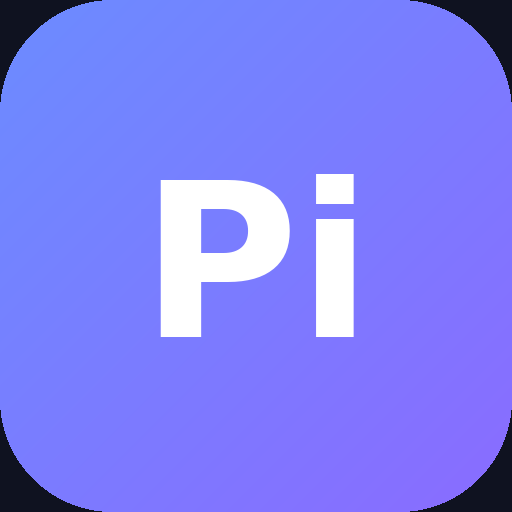
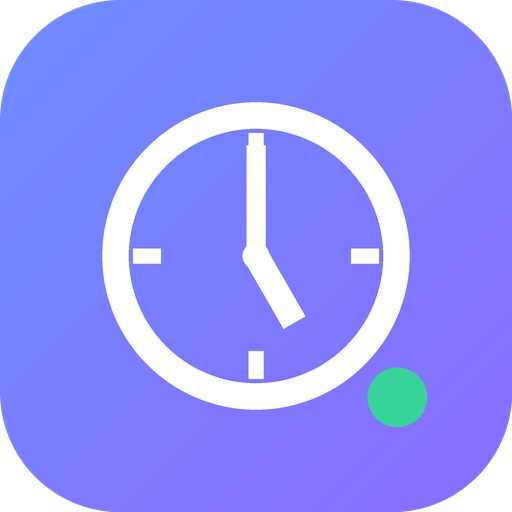
Ícone com relógio e atualização automática do APK
O ícone do launcher era a arte de iniciais "Pi" — a versão com relógio
nunca chegou ao repositório. Gerei uma na paleta do app: mostrador com
os ponteiros em 17:00, a hora de ir embora, e o ponto verde do dia
zerado. Sai em todas as densidades, com ícone adaptativo e monocromático
pra máscara do Android não recortar o relógio.

Atualização: o app consulta a última release do GitHub e compara com o
próprio versionCode, que agora é o número do build — o mesmo N da tag
apk-N, então a comparação é direta. Havendo versão nova, baixa pelo
DownloadManager e abre o instalador do sistema via FileProvider, porque
file:// é recusado desde o Android 7.

A checagem roda sozinha ao abrir, mas só fala se houver novidade; pelo
botão ela responde nos dois casos. Instalar continua sendo confirmação
do usuário — o Android não deixa um app se substituir sozinho, e não
deveria mesmo.

Claude-Session: https://claude.ai/code/session_01JaSB2K9tfWYAkauGRKa5f5

diff --git a/android/app/src/main/java/br/com/impactaweb/pontoimp/Atualizador.kt b/android/app/src/main/java/br/com/impactaweb/pontoimp/Atualizador.kt
@@ -1,0 +1,88 @@
+package br.com.impactaweb.pontoimp
+
+import android.app.DownloadManager
+import android.content.Context
+import android.content.Intent
+import android.database.Cursor
+import android.net.Uri
+import android.os.Environment
+import android.util.Log
+import androidx.core.content.FileProvider
+import org.json.JSONObject
+import java.io.File
+import java.net.HttpURLConnection
+import java.net.URL
+
+/**
+ * Atualização por fora da Play Store: consulta a última release do GitHub,
+ * compara com o versionCode instalado e baixa o APK quando há versão nova.
+ *
+ * A instalação em si é sempre do usuário — o Android não deixa (e nem deveria
+ * deixar) um app se substituir sozinho sem confirmação.
+ */
+object Atualizador {
+    private const val TAG = "PontoImp"
+    private const val API = "https://api.github.com/repos/denerbatista/pontoimp/releases/latest"
+
+    data class Release(val versao: Int, val nome: String, val url: String)
+
+    /** Faz rede: chame fora da thread principal. */
+    fun consultar(): Release? = runCatching {
+        val con = (URL(API).openConnection() as HttpURLConnection).apply {
+            connectTimeout = 12000; readTimeout = 12000
+            setRequestProperty("Accept", "application/vnd.github+json")
+        }
+        if (con.responseCode != 200) { Log.w(TAG, "release: HTTP ${con.responseCode}"); return null }
+        val j = JSONObject(con.inputStream.bufferedReader().use { it.readText() })
+
+        // a tag é apk-N, e N é o run_number do build, que cresce sempre
+        val versao = Regex("""apk-(\d+)""").find(j.optString("tag_name"))
+            ?.groupValues?.get(1)?.toIntOrNull() ?: return null
+
+        val assets = j.optJSONArray("assets") ?: return null
+        for (i in 0 until assets.length()) {
+            val a = assets.getJSONObject(i)
+            if (a.optString("name").endsWith(".apk"))
+                return Release(versao, a.optString("name"), a.optString("browser_download_url"))
+        }
+        null
+    }.getOrNull()
+
+    fun versaoInstalada(ctx: Context): Int = runCatching {
+        ctx.packageManager.getPackageInfo(ctx.packageName, 0).let {
+            @Suppress("DEPRECATION") it.versionCode
+        }
+    }.getOrDefault(0)
+
+    /** Baixa pro diretório privado do app e devolve o id do download. */
+    fun baixar(ctx: Context, r: Release): Long {
+        val destino = File(ctx.getExternalFilesDir(Environment.DIRECTORY_DOWNLOADS), r.nome)
+        if (destino.exists()) destino.delete()
+        val req = DownloadManager.Request(Uri.parse(r.url))
+            .setTitle("PontoImp " + r.versao)
+            .setDescription("Baixando a atualização")
+            .setNotificationVisibility(DownloadManager.Request.VISIBILITY_VISIBLE_NOTIFY_COMPLETED)
+            .setDestinationUri(Uri.fromFile(destino))
+        return ctx.getSystemService(DownloadManager::class.java).enqueue(req)
+    }
+
+    /** Abre a tela de instalação do Android com o APK baixado. */
+    fun instalar(ctx: Context, id: Long): Boolean {
+        val dm = ctx.getSystemService(DownloadManager::class.java)
+        val c: Cursor = dm.query(DownloadManager.Query().setFilterById(id)) ?: return false
+        c.use {
+            if (!it.moveToFirst()) return false
+            val status = it.getInt(it.getColumnIndexOrThrow(DownloadManager.COLUMN_STATUS))
+            if (status != DownloadManager.STATUS_SUCCESSFUL) return false
+            val local = it.getString(it.getColumnIndexOrThrow(DownloadManager.COLUMN_LOCAL_URI)) ?: return false
+            val arquivo = File(Uri.parse(local).path ?: return false)
+            // content:// via FileProvider — file:// é recusado desde o Android 7
+            val uri = FileProvider.getUriForFile(ctx, "${ctx.packageName}.arquivos", arquivo)
+            ctx.startActivity(Intent(Intent.ACTION_VIEW).apply {
+                setDataAndType(uri, "application/vnd.android.package-archive")
+                addFlags(Intent.FLAG_GRANT_READ_URI_PERMISSION or Intent.FLAG_ACTIVITY_NEW_TASK)
+            })
+            return true
+        }
+    }
+}

diff --git a/index.html b/index.html
@@ -702,6 +702,22 @@ function testarAlarmeNativo(){
 
 /* Sem permissão de alarme exato o Android não agenda nada — e antes disso o app
    não tinha como te contar. É a causa mais provável de "só toca com o app aberto". */
+/* ---------- atualização do APK ---------- */
+let versaoNova=0, checagemSilenciosa=true;
+function aoVerificarAtualizacao(nova,atual){
+  versaoNova=nova||0;
+  // na abertura só falamos se houver novidade; no botão, sempre respondemos
+  if(!nova){ if(!checagemSilenciosa) toast('Você já está na versão mais nova ('+atual+').'); }
+  else toast('Versão '+nova+' disponível.');
+  checagemSilenciosa=true;
+  render();
+}
+function verificarAtualizacao(){
+  if(typeof AndroidAlarme?.verificarAtualizacao!=='function') return toast('Só no app instalado.');
+  checagemSilenciosa=false; toast('Consultando…'); AndroidAlarme.verificarAtualizacao();
+}
+function baixarAtualizacao(){ if(typeof AndroidAlarme?.baixarAtualizacao==='function') AndroidAlarme.baixarAtualizacao(); }
+
 function diagAlarmeNativo(){
   const exato=pn('podeAlarmeExato',null), sobre=pn('podeSobreporTelas',null), n=pn('alarmesArmados',null);
   if(exato===null) return `<p class="muted" style="font-size:12px;margin:0">APK antigo: atualize pra ver o estado dos alarmes.</p>`;
@@ -1353,7 +1369,10 @@ function viewCfg(){
     <div class="row2" style="margin-top:8px">
       <button class="btn ghost sm" style="width:100%" onclick="armarAlarmesNativos()&&toast('Alarmes remarcados no sistema.')">⏰ Remarcar alarmes</button>
       <button class="btn ghost sm" style="width:100%" onclick="testarAlarmeNativo()">🔔 Testar alarme</button>
-    </div>`:`
+    </div>
+    ${versaoNova
+      ? `<button class="btn sm" style="width:100%;margin-top:8px" onclick="baixarAtualizacao()">⬇ Baixar e instalar a versão ${versaoNova}</button>`
+      : `<button class="btn ghost sm" style="width:100%;margin-top:8px" onclick="verificarAtualizacao()">🔄 Procurar atualização do app</button>`}`:`
     <div class="row2">
       <button class="btn ghost sm" style="width:100%" onclick="pedirPermissao()">🔔 Ativar notificações</button>
       <button class="btn ghost sm" style="width:100%" onclick="instalarApp()">📲 Instalar no celular</button>
@@ -1447,7 +1466,12 @@ function enterApp(){ $('#login').classList.add('hidden'); $('#app').classList.re
    silencia quem pede sem gesto), por isso ainda mostramos o convite. */
 async function prepararAvisos(){
   // no APK quem acorda o aparelho é o AlarmManager, não a permissão do navegador
-  if(temPonteNativa()){ armarAlarmesNativos(); esconderConvite(); atualizarDiagNotif(); return; }
+  if(temPonteNativa()){
+    armarAlarmesNativos(); esconderConvite(); atualizarDiagNotif();
+    // confere versão nova em segundo plano; só fala se houver
+    try{ if(typeof AndroidAlarme.verificarAtualizacao==='function') AndroidAlarme.verificarAtualizacao(); }catch(e){}
+    return;
+  }
   if(porQueSemNotificacao()){ mostrarConvite(); return; }
   if(Notification.permission==='default'){
     try{ await Notification.requestPermission(); }catch(e){}

diff --git a/test_ui.js b/test_ui.js
@@ -598,7 +598,10 @@ const server = http.createServer((req,res)=>{
       // a ponte que o WebView do app injeta
       window.AndroidAlarme = { agendar:(j)=>window.registrarAgenda(j), disponivel:()=>true,
         podeAlarmeExato:()=>false, podeSobreporTelas:()=>true, alarmesArmados:()=>0,
-        pedirAlarmeExato:()=>{}, pedirSobreporTelas:()=>{}, testarAlarme:()=>{} };
+        pedirAlarmeExato:()=>{}, pedirSobreporTelas:()=>{}, testarAlarme:()=>{},
+        // o lado nativo responde por callback, como o WebView faz de verdade
+        verificarAtualizacao:()=>setTimeout(()=>window.aoVerificarAtualizacao(14,11),30),
+        baixarAtualizacao:()=>window.baixouChamado&&window.baixouChamado() };
       const d=new Date(); const hoje=d.getFullYear()+'-'+String(d.getMonth()+1).padStart(2,'0')+'-'+String(d.getDate()).padStart(2,'0');
       localStorage.setItem('pontoimp.v2',JSON.stringify({ gateway:'http://localhost:'+port+'/gw',
         auth:{banco:'1',tipo:'0',usuario:'9',senha:'',token:'fake',lembrar:true},
@@ -634,6 +637,23 @@ const server = http.createServer((req,res)=>{
     check('mostra quantos alarmes estão marcados', /Alarmes marcados pra hoje/.test(cfg));
     check('permissão pendente vira botão, não texto morto',
       (await page.locator('button:has-text("permitir")').count())===1);
+
+    // atualização do APK: o app confere sozinho ao abrir e oferece baixar
+    check('detecta versão nova ao abrir', await page.evaluate(()=>versaoNova===14));
+    check('oferece baixar a versão nova',
+      (await page.locator('button:has-text("Baixar e instalar a versão 14")').count())===1);
+    check('checagem automática não fala quando já está atualizado', await page.evaluate(async()=>{
+      checagemSilenciosa=true; aoVerificarAtualizacao(0,14);
+      document.querySelector('#toast').textContent='';
+      aoVerificarAtualizacao(0,14);
+      await new Promise(r=>setTimeout(r,60));
+      return document.querySelector('#toast').textContent==='';
+    }));
+    check('no botão, responde mesmo estando atualizado', await page.evaluate(async()=>{
+      checagemSilenciosa=false; aoVerificarAtualizacao(0,14);
+      await new Promise(r=>setTimeout(r,60));
+      return /versão mais nova/.test(document.querySelector('#toast').textContent);
+    }));
     check('sem erros de JS dentro do app', errs.length===0 || (console.log('   errs:',errs), false));
     await page.close();
   }

diff --git a/android/app/src/main/java/br/com/impactaweb/pontoimp/MainActivity.kt b/android/app/src/main/java/br/com/impactaweb/pontoimp/MainActivity.kt
@@ -113,6 +113,42 @@ class MainActivity : AppCompatActivity() {
             }
         }
 
+        /* ---- atualização ---- */
+
+        /** Devolve a versão nova, ou "" se já está atualizado. Faz rede: assíncrono. */
+        @JavascriptInterface
+        fun verificarAtualizacao() {
+            Thread {
+                val r = Atualizador.consultar()
+                val atual = Atualizador.versaoInstalada(applicationContext)
+                val nova = if (r != null && r.versao > atual) r.versao else 0
+                runOnUiThread {
+                    b.web.evaluateJavascript("window.aoVerificarAtualizacao&&aoVerificarAtualizacao($nova,$atual)", null)
+                }
+            }.start()
+        }
+
+        /** Baixa e, ao terminar, abre a tela de instalação do Android. */
+        @JavascriptInterface
+        fun baixarAtualizacao() {
+            Thread {
+                val r = Atualizador.consultar()
+                if (r == null) { avisar("Não consegui consultar a atualização."); return@Thread }
+                val id = Atualizador.baixar(applicationContext, r)
+                avisar("Baixando o APK ${r.versao}…")
+                // espera o download; o DownloadManager não avisa direto a Activity
+                repeat(180) {
+                    Thread.sleep(1000)
+                    if (Atualizador.instalar(applicationContext, id)) return@Thread
+                }
+                avisar("O download demorou demais. Tente pela release no GitHub.")
+            }.start()
+        }
+
+        private fun avisar(txt: String) = runOnUiThread {
+            b.web.evaluateJavascript("window.toast&&toast(${org.json.JSONObject.quote(txt)})", null)
+        }
+
         /** Dispara a tela de alarme agora, pra você conferir sem esperar o horário. */
         @JavascriptInterface
         fun testarAlarme() {
